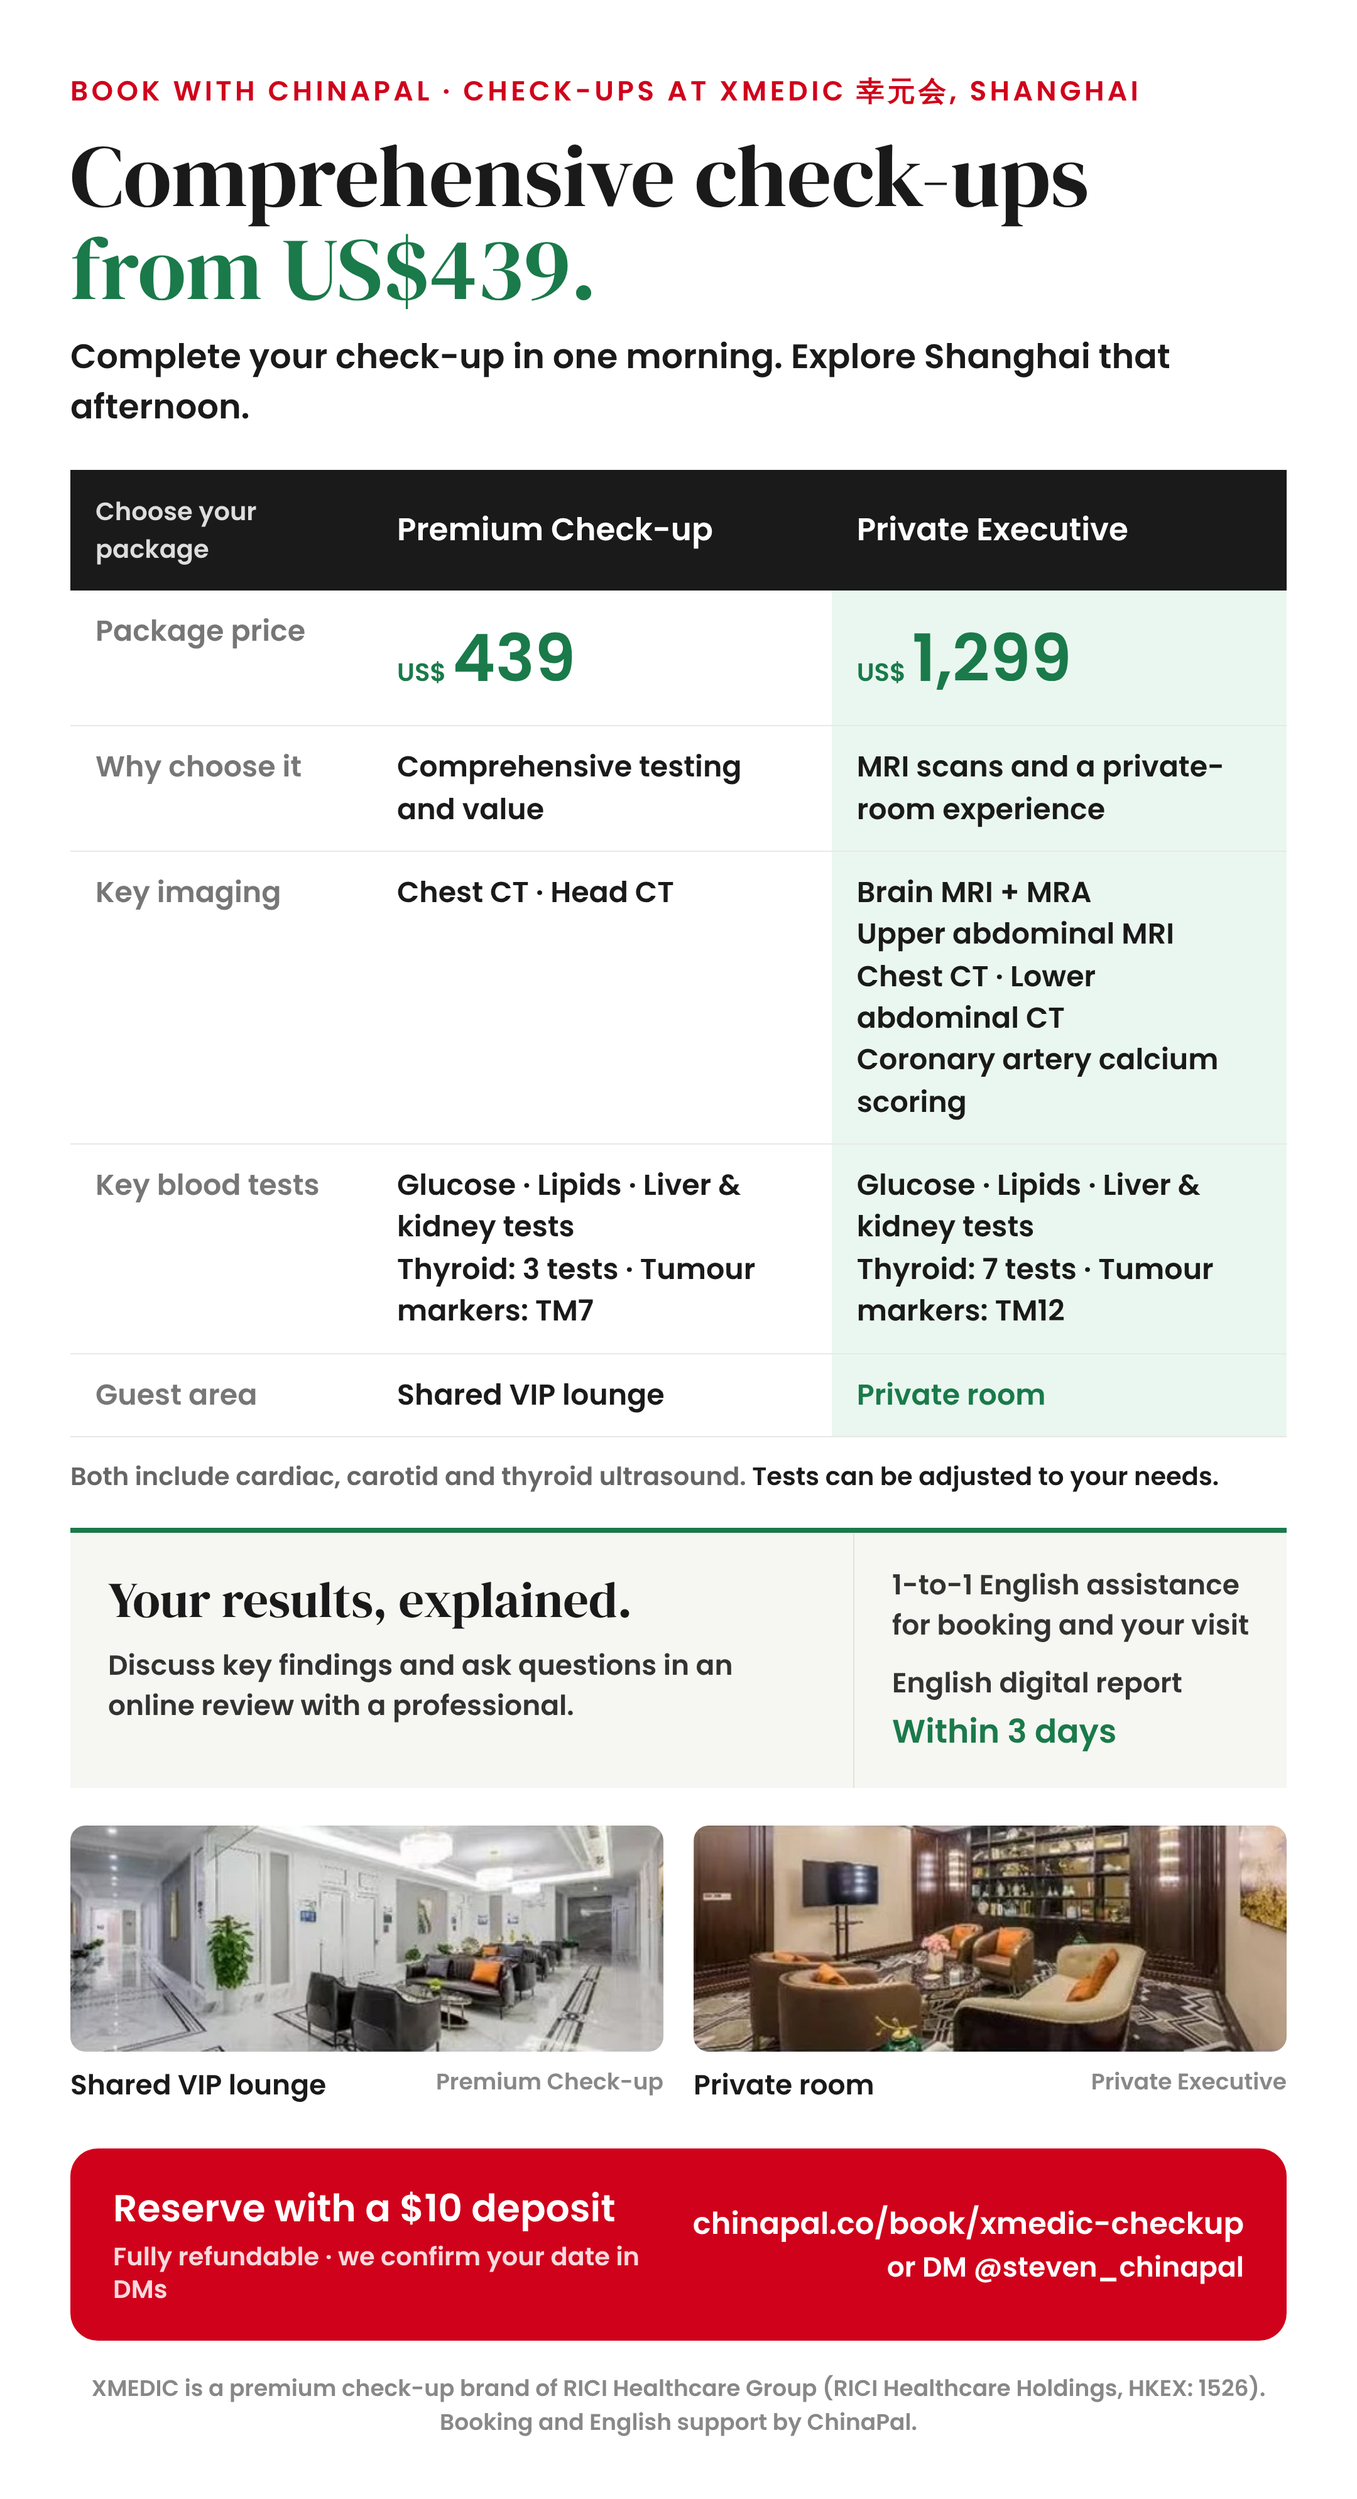
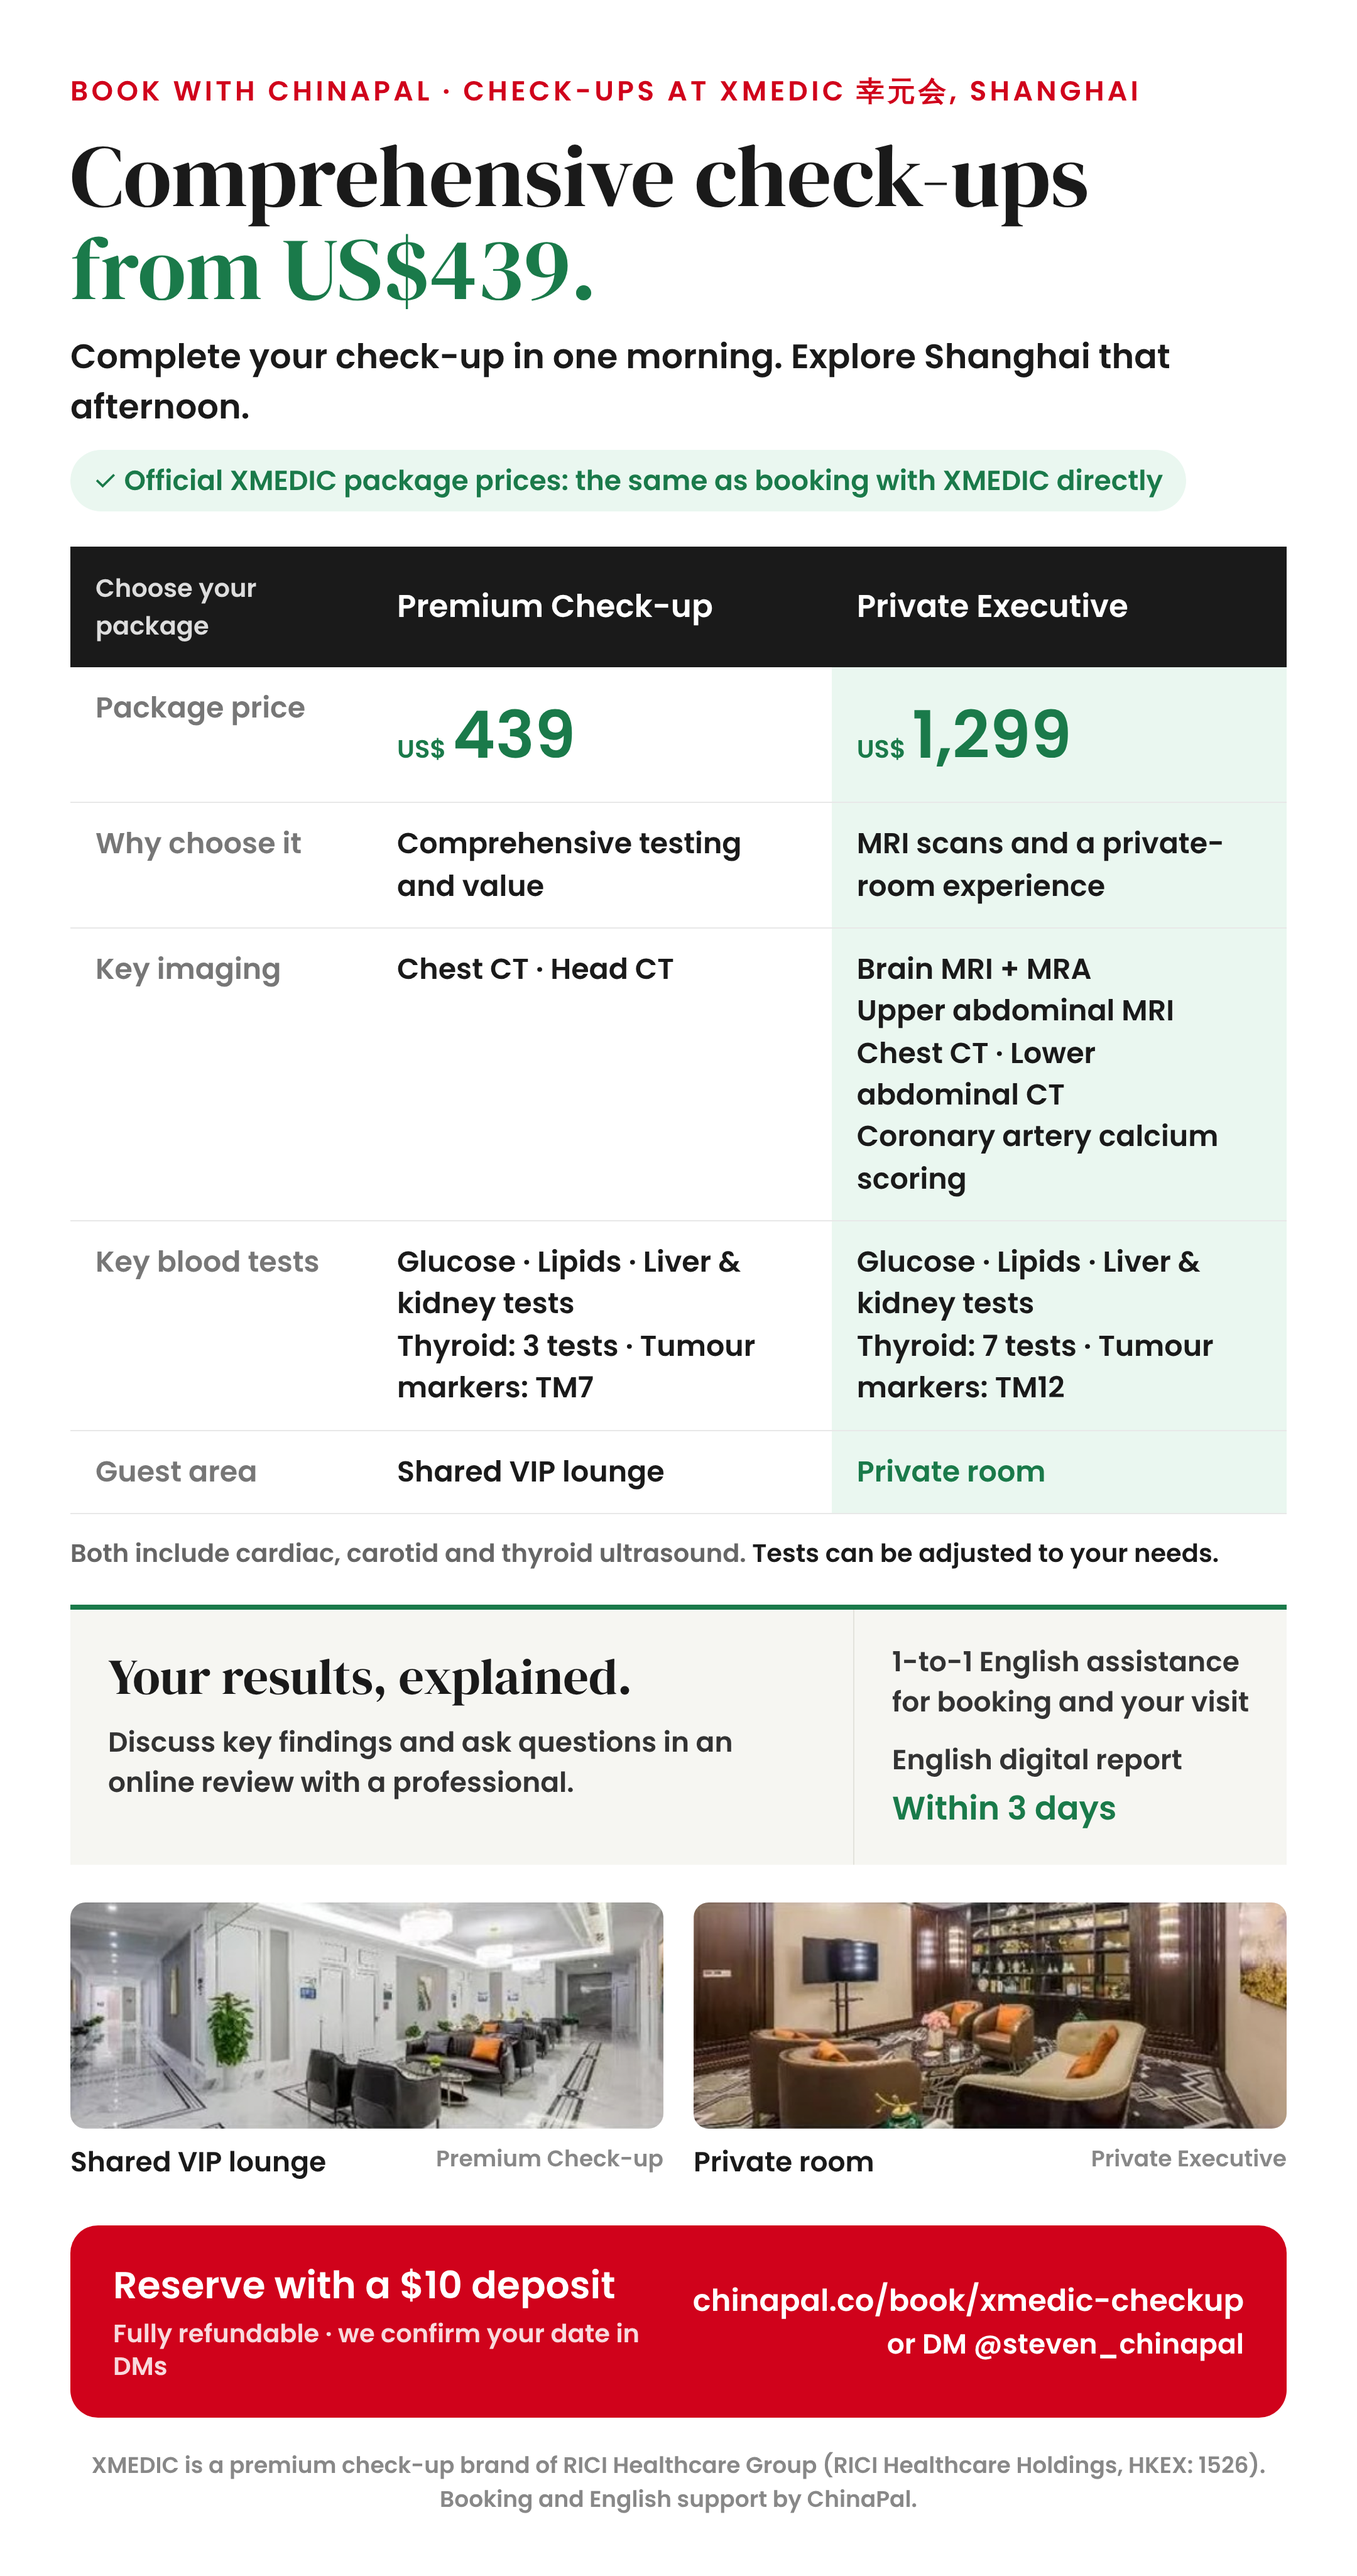
xmedic-checkup: share image says official XMEDIC prices
Claude-Session: https://claude.ai/code/session_01PVaesXEeK8cBbDWcD3C9RL

Changed region(s): [[0.031, 0.0312, 0.9616, 0.9663], [0.5273, 0.0312, 0.8065, 0.0935], [0.062, 0.4676, 0.2481, 0.4987]]

diff --git a/.claude/skills/china-spot-video/episodes/xmedic-checkup/booking/flyer.html b/.claude/skills/china-spot-video/episodes/xmedic-checkup/booking/flyer.html
@@ -6,7 +6,8 @@ body{margin:0;width:1080px;background:#fff;font-family:Pop,'Noto Sans CJK SC',sa
 .kick{font-size:22px;letter-spacing:.12em;color:#D0021B;font-weight:600}
 h1{font-family:DMSerifD;font-weight:400;font-size:70px;line-height:1.05;margin:14px 0 14px}
 h1 b{color:#1A7A4A;font-weight:400}
-.sub{font-size:27px;margin:0 0 30px}.sub b{font-weight:600}
+.sub{font-size:27px;margin:0 0 14px}
+.off{display:inline-block;font-size:22px;color:#1A7A4A;background:#EAF7F0;border-radius:999px;padding:8px 18px;margin:0 0 28px}.sub b{font-weight:600}
 table{width:100%;border-collapse:collapse;font-size:23px}
 th{background:#1a1a1a;color:#fff;text-align:left;padding:18px 20px;font-size:25px}
 th:first-child{font-size:20px;color:#ddd}
@@ -30,6 +31,7 @@ td.ex{background:#EAF7F0}
 <div class="kick">BOOK WITH CHINAPAL · CHECK-UPS AT XMEDIC 幸元会, SHANGHAI</div>
 <h1>Comprehensive check-ups <b>from US$439.</b></h1>
 <p class="sub"><b>Complete your check-up in one morning.</b> Explore Shanghai that afternoon.</p>
+<div class="off">&#10003; Official XMEDIC package prices: the same as booking with XMEDIC directly</div>
 <table>
 <tr><th>Choose your package</th><th>Premium Check-up</th><th>Private Executive</th></tr>
 <tr><td>Package price</td><td class="price">US$ <span>439</span></td><td class="ex price">US$ <span>1,299</span></td></tr>
